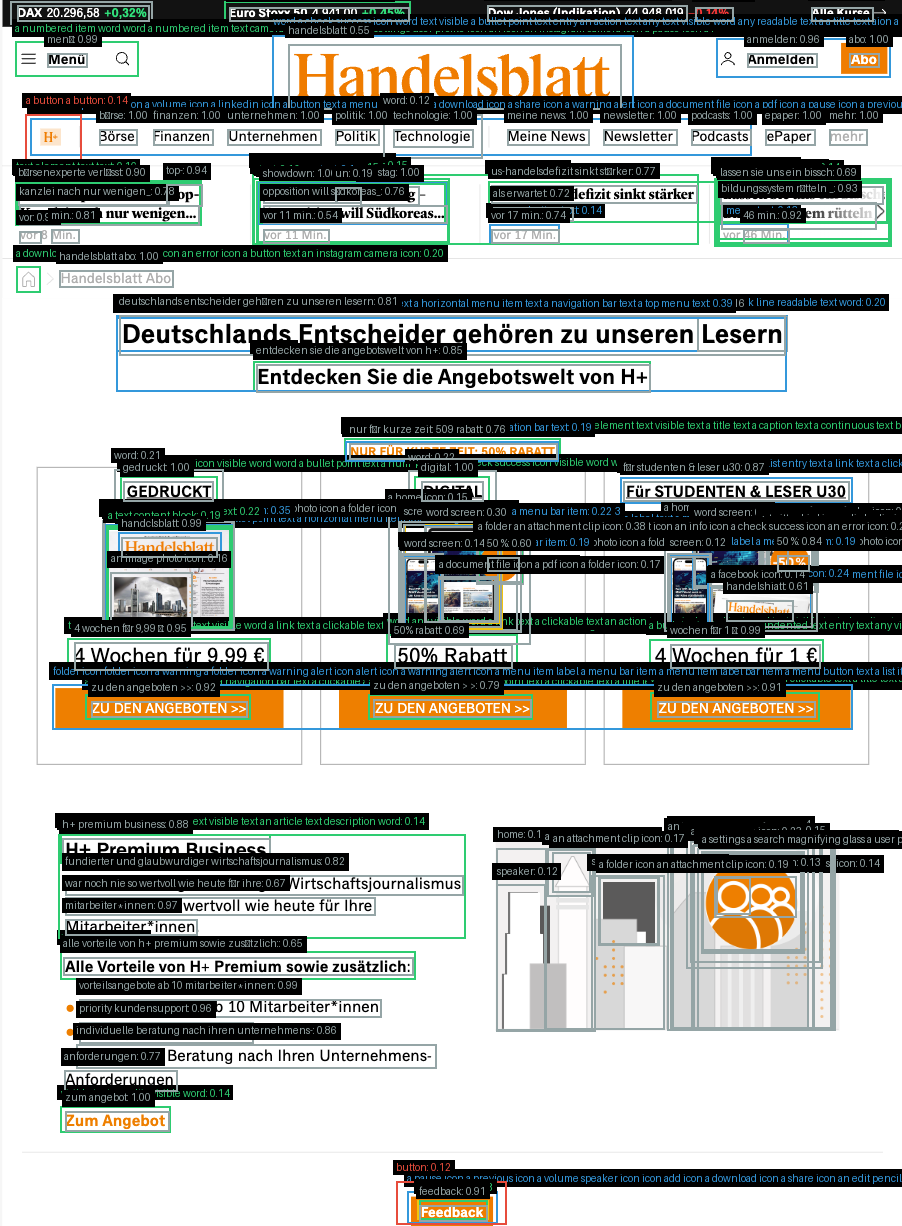
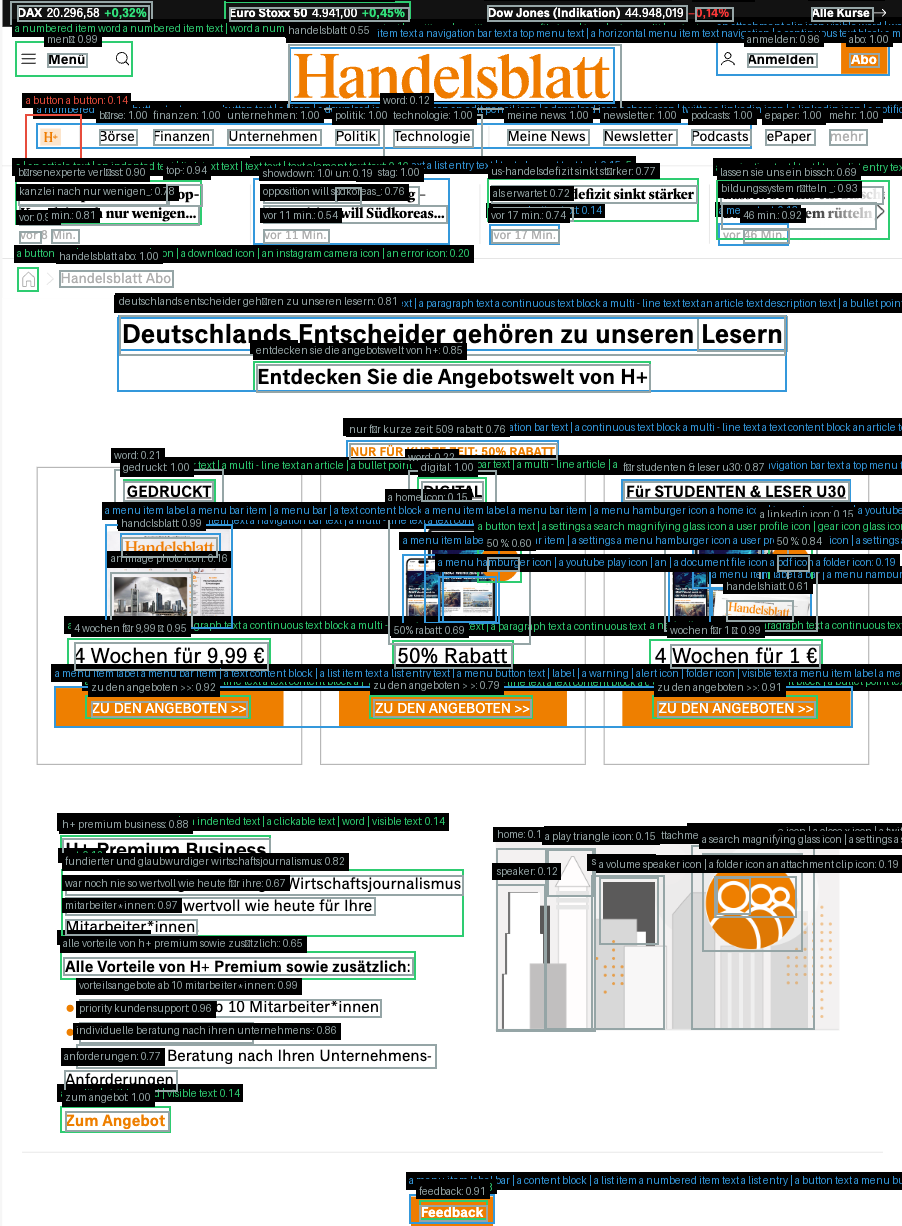
dino: added bounding box detection overlapping

diff --git a/services/mask-generation/src/processors.py b/services/mask-generation/src/processors.py
@@ -2,9 +2,62 @@ from typing import List, Dict
 from config.settings import TEXT_DETECTION_PARAMS, LAYOUT_PATTERNS
 
 class LayoutProcessor:
+    def calculate_iou(self, box1, box2):
+        x1 = max(box1[0], box2[0])
+        y1 = max(box1[1], box2[1])
+        x2 = min(box1[2], box2[2])
+        y2 = min(box1[3], box2[3])
+        
+        intersection = max(0, x2 - x1) * max(0, y2 - y1)
+        box1_area = (box1[2] - box1[0]) * (box1[3] - box1[1])
+        box2_area = (box2[2] - box2[0]) * (box2[3] - box2[1])
+        
+        return intersection / (box1_area + box2_area - intersection)
+
+    def merge_overlapping_boxes(self, detections: List[Dict], iou_threshold: float = 0.5) -> List[Dict]:
+        if not detections:
+            return []
+            
+        merged = []
+        used = set()
+
+        for i, det1 in enumerate(detections):
+            if i in used:
+                continue
+                
+            current_group = [det1]
+            used.add(i)
+            
+            for j, det2 in enumerate(detections):
+                if j in used or i == j:
+                    continue
+                    
+                if self.calculate_iou(det1['box'], det2['box']) > iou_threshold:
+                    current_group.append(det2)
+                    used.add(j)
+            
+            if current_group:
+                best_score_idx = max(range(len(current_group)), 
+                                   key=lambda x: current_group[x]['score'])
+                best_det = current_group[best_score_idx]
+                unique_labels = []
+                for d in current_group:
+                    if d['label'] not in unique_labels:
+                        unique_labels.append(d['label'])
+                
+                merged.append({
+                    'box': best_det['box'],
+                    'score': best_det['score'],
+                    'label': ' | '.join(unique_labels)
+                })
+        
+        return merged
+
     def process_layout(self, detections: List[Dict]) -> List[Dict]:
         if not detections:
             return []
+            
+        detections = self.merge_overlapping_boxes(detections)
         filtered = self.filter_by_size(detections)
         groups = self.group_by_layout(filtered)
         
